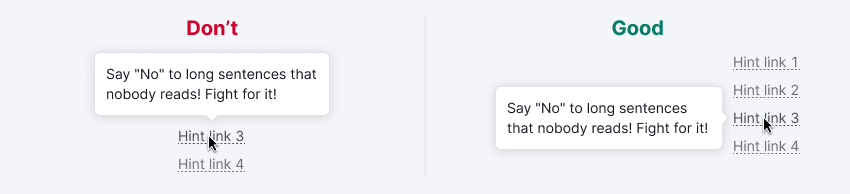
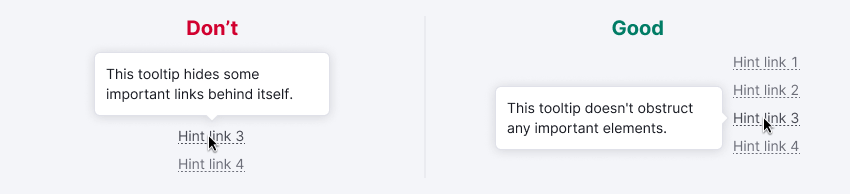
[website] DescriptionTooltip a11y docs fixes, plus some general fixes

Changed region(s): [[0.1224, 0.3402, 0.3671, 0.5258], [0.5812, 0.6186, 0.8259, 0.7113], [0.5812, 0.5258, 0.8259, 0.5876]]

diff --git a/website/docs/components/tooltip/examples/basic_usage.tsx b/website/docs/components/tooltip/examples/basic_usage.tsx
@@ -1,11 +1,12 @@
 import React from 'react';
 import Tooltip, { Hint, DescriptionTooltip } from 'intergalactic/tooltip';
 import { Box, Flex } from 'intergalactic/flex-box';
-import { Text } from 'intergalactic/typography';
+import { Text, Hint as HintLink } from 'intergalactic/typography';
 import Link from 'intergalactic/link';
 import Button from 'intergalactic/button';
-import FileExportM from 'intergalactic/icon/FileExport/m'
-import CheckAltM from 'intergalactic/icon/CheckAlt/m'
+import FileExportM from 'intergalactic/icon/FileExport/m';
+import CheckAltM from 'intergalactic/icon/CheckAlt/m';
+import InfoM from 'intergalactic/icon/Info/m'
 
 const Demo = () => (
   <Flex gap={4} flexWrap>
@@ -20,7 +21,11 @@ const Demo = () => (
       <CheckAltM />
     </Hint>
     <Hint title='You confirmed your email' aria-hidden={false} tag={CheckAltM} />
-    <Tooltip tag={Link} href='https://google.com' title='Default tooltip contains short text explaining something about the trigger.'>
+    <Tooltip
+      tag={Link}
+      href='https://google.com'
+      title='Default tooltip contains short text explaining something about the trigger.'
+    >
       Tooltip
     </Tooltip>
     <Tooltip title='Default tooltip contains short text explaining something about the trigger.'>
@@ -31,22 +36,37 @@ const Demo = () => (
       </Button>
     </Tooltip>
     <DescriptionTooltip>
-      <DescriptionTooltip.Trigger tag={Button}>Additional information</DescriptionTooltip.Trigger>
+      <DescriptionTooltip.Trigger tag={HintLink}>Additional information</DescriptionTooltip.Trigger>
       <DescriptionTooltip.Popper>
-        <Text size={200} bold>
+        <Text tag='p' bold mb={1}>
           Additional information
         </Text>
-        <Box my={2}>
+        <Text tag='p' mb={3}>
           Use this tooltip type for elements that already have a visible name, and you need to show
           a lot of additional information.
-        </Box>
-        <Box mb={2}>
+        </Text>
+        <Text tag='p'>
           It may contain several paragraphs and interactive elements (for example,{' '}
           <Link href='https://semrush.com'>links</Link>).
-        </Box>
+        </Text>
       </DescriptionTooltip.Popper>
     </DescriptionTooltip>
-    <input />
+    <DescriptionTooltip>
+      <DescriptionTooltip.Trigger tag={InfoM} interactive />
+      <DescriptionTooltip.Popper>
+        <Text tag='p' bold mb={1}>
+          Additional information
+        </Text>
+        <Text tag='p' mb={3}>
+          Use this tooltip type for elements that already have a visible name, and you need to show
+          a lot of additional information.
+        </Text>
+        <Text tag='p'>
+          It may contain several paragraphs and interactive elements (for example,{' '}
+          <Link href='https://semrush.com'>links</Link>).
+        </Text>
+      </DescriptionTooltip.Popper>
+    </DescriptionTooltip>
   </Flex>
 );
 

diff --git a/website/docs/components/tooltip/tooltip-a11y.md b/website/docs/components/tooltip/tooltip-a11y.md
@@ -14,19 +14,19 @@ Table: Keyboard support
 | Key              | Function            |
 | ---------------- | ------------------- |
 | `Esc`            | Closes the tooltip. |
-| `Space`, `Enter` | Opens `DescriptionTooltip`. |
+| `Space`, `Enter` | Opens `DescriptionTooltip`. |
 | `Tab`            | In `Hint` and `Tooltip` without nested interactive elements — moves focus to the next focusable element outside of the tooltip. <br />In an open `DescriptionTooltip` and `Tooltip` containing interactive elements — moves focus to the next focusable element inside the tooltip and, in the end, back to the trigger. |
-| `Shift + Tab`    | Moves focus in reverse relative to `Tab`. |
+| `Shift + Tab`    | Moves focus in reverse relative to `Tab`. |
 
 ### Focus behavior
 
 Table: Focus behaviour
 
-| Component            | Trigger behaviour   | Popper behaviour   |
+| Component            | Trigger behaviour   | Popper behaviour   |
 | -------------------- | ------------------- | ------------------ |
-| `Hint`               | Popper appears on focus.        | Popper itself isn't focusable. |
-| `Tooltip`            | Popper appears on focus.        | Popper itself isn't focusable by default, but becomes focusable if there are any focusable elements inside. |
-| `DescriptionTooltip` | Nothing happens on focus.       | Popper itself is focusable by default and receives focus automatically when opened. |
+| `Hint`               | Triggers popper on focus.        | Popper isn't focusable. |
+| `Tooltip`            | Triggers popper on focus.        | Popper isn't focusable by default, but becomes focusable if there are any focusable elements inside. |
+| `DescriptionTooltip` | Nothing happens on focus.       | Popper is focusable by default and receives focus automatically when opened. |
 
 ::: tip
 Although it's technically possible to use interactive elements inside a Tooltip, it's not recommended due to poor accessibility. Consider using `DescriptionTooltip` or [Dropdown](../dropdown/dropdown) if it must contain links or other interactive elements.
@@ -38,10 +38,10 @@ The list below describes roles and attributes the component already has.
 
 Table: Hint default attributes
 
-| Attribute      | Element  | Usage          |
-| -------------- | -------- | --------------------------------------------------------- |
-| `aria-hidden`  | popper   | `Hint`'s popper is hidden from assistive technologies.      |
-| `aria-label`   | trigger  | Trigger's aria-label matches the text in the popper (both inherit `Hint`'s `title` property).  |
+| Component  | Attribute      | Usage                                                                       |
+| ---------- | -------------- | --------------------------------------------------------------------------- |
+| `Trigger`  | `aria-label`   | Matches text in the `Popper` (both inherit `Hint.title` value).         |
+| `Popper`   | `aria-hidden`  | `Popper` is hidden from assistive technologies.                        |
 
 ### Tooltip roles and attributes
 
@@ -49,12 +49,12 @@ The list below describes roles and attributes that `Tooltip` component has.
 
 Table: Tooltip default roles and attributes
 
-| Role      | Attribute                 | Element                                                   | Usage                                                                                                                                                                                                                                                             |
-| --------- | ------------------------- | --------------------------------------------------------- | ----------------------------------------------------------------------------------------------------------------------------------------------------------------------------------------------------------------------------------------------------------------- |
-| `tooltip` |                           | `div`                                                     | It's a contextual text bubble that displays a description for an element that appears on pointer hover or keyboard focus.                                                                                                                                         |
-|           | `aria-describedby`        | trigger                                                   | Allows assistive technologies to announce popper content as trigger's description. If you need to set it on another element, checkout [the accessibility example](/components/tooltip/tooltip-code#popper-trigger-accessibility).                                                |
-|           | `aria-live="polite"`      | Implicit on `div`                                         | Used to keep component accessible with browsers and screen readers that doesn't support `aria-describedby` . Assistive technologies will announce popper content when it's opened or changed.                                                                      |
-|           | `aria-live="assertive"`   | Implicit on `div` (only for tooltip with `warning` theme) | Same to `aria-live="polite"` . |
+| Component      | Attribute                                               | Usage                                                                                                                                                                                                                                                             |
+| -------------- | ------------------------------------------------------- | ----------------------------------------------------------------------------------------------------------------------------------------------------------------------------------------------------------------------------------------------------------------- |
+| `Trigger`      | `aria-describedby`                                      | Allows assistive technologies to announce popper content as trigger's description. If you need to set it on another element, checkout [the accessibility example](/components/tooltip/tooltip-code#popper-trigger-accessibility).                                                |
+| `Popper`       | `role="tooltip"`                                        | Indicates that this is a container with tooltip's content.                                                                                                                                         |
+| `Popper`       | `aria-live="polite"` (except for `theme="warning"`)     | Used to keep component accessible with browsers and screen readers that doesn't support `aria-describedby` . Assistive technologies will announce popper content when it's opened or changed.                                                                      |
+| `Popper`       | `aria-live="assertive"` (only with `theme="warning"`)   | Like `aria-live="polite"`, but will interrupt any other announcement a screen reader is currently making. |
 
 ### DescriptionTooltip roles and attributes
 
@@ -62,11 +62,11 @@ The list below describes roles and attributes that `DescriptionTooltip` componen
 
 Table: DescriptionTooltip default roles and attributes
 
-| Role      | Attribute                 | Element                                                   | Usage                                                                                                                      |
-| --------- | ------------------------- | --------------------------------------------------------- | -------------------------------------------------------------------------------------------------------------------------- |
-| `tooltip` |                           | `div` | It's a contextual text bubble that displays a description for an element that appears on pointer hover or keyboard focus.  |
-|           | `aria-haspopup` | trigger                                                   | Helps assistive technologies to indicate that trigger has corresponding dropdown.                                          |
-|           | `aria-expanded` | trigger                                                   | Added when popper is visible. Helps assistive technologies to indicate that opened dropdown.                               |
+| Component      | Attribute                  | Usage                                                                  |
+| -------------- | -------------------------- | ---------------------------------------------------------------------- |
+| `Trigger`      | `aria-controls=PopupID`    | Identifies the popup this `Trigger` opens. |
+| `Trigger`      | `aria-expanded`            | Set to `true` when `Popper` is visible. Indicates that the popup is open. |
+| `Trigger`      | `aria-haspopup="dialog"` ? | Indicates that the element triggers a popup dialog. |
 
 ## Considerations for designers & developers
 
@@ -84,10 +84,10 @@ This list will help you keep in mind the necessary roles and attributes to make 
 
 Table: Hint roles and attributes
 
-| Role      | Attribute                 | Element       | Usage                                                                                                                      |
-| --------- | ------------------------- | ------------- | -------------------------------------------------------------------------------------------------------------------------- |
-| `image`   |                           | trigger       | Use when the trigger is a non-interactive icon, and is set as the child element of the `Hint`.  |
-|           | `aria-hidden="false"`     | trigger       | Use when the trigger is a non-interactive icon, and is merged with the `Hint` using the `tag` property.  |
+| Component     | Attribute                 | Usage                                                                                                                      |
+| ------------- | ------------------------- | -------------------------------------------------------------------------------------------------------------------------- |
+| `Trigger`     | `role="image"`            | Use when the trigger is a non-interactive icon, and is set as the child element of the `Hint`.  |
+| `Trigger`     | `aria-hidden="false"`     | Use when the trigger is a non-interactive icon, and is merged with the `Hint` using the `tag` property.  |
 
 ### Tooltip roles and attributes
 
@@ -95,9 +95,9 @@ This list will help you keep in mind the necessary roles and attributes to make 
 
 Table: Tooltip roles and attributes
 
-| Attribute       | Element       | Usage                                                                                                                      |
-| --------------- | ------------- | -------------------------------------------------------------------------------------------------------------------------- |
-| `aria-label`    | trigger ?     | Use when the trigger doesn't have a visible label. |
+| Component     | Attribute       | Usage                                                                                                                      |
+| ------------- | --------------- | -------------------------------------------------------------------------------------------------------------------------- |
+| `Trigger`     | `aria-label`    | Use when the trigger doesn't have a visible label. |
 
 
 ## Resources
